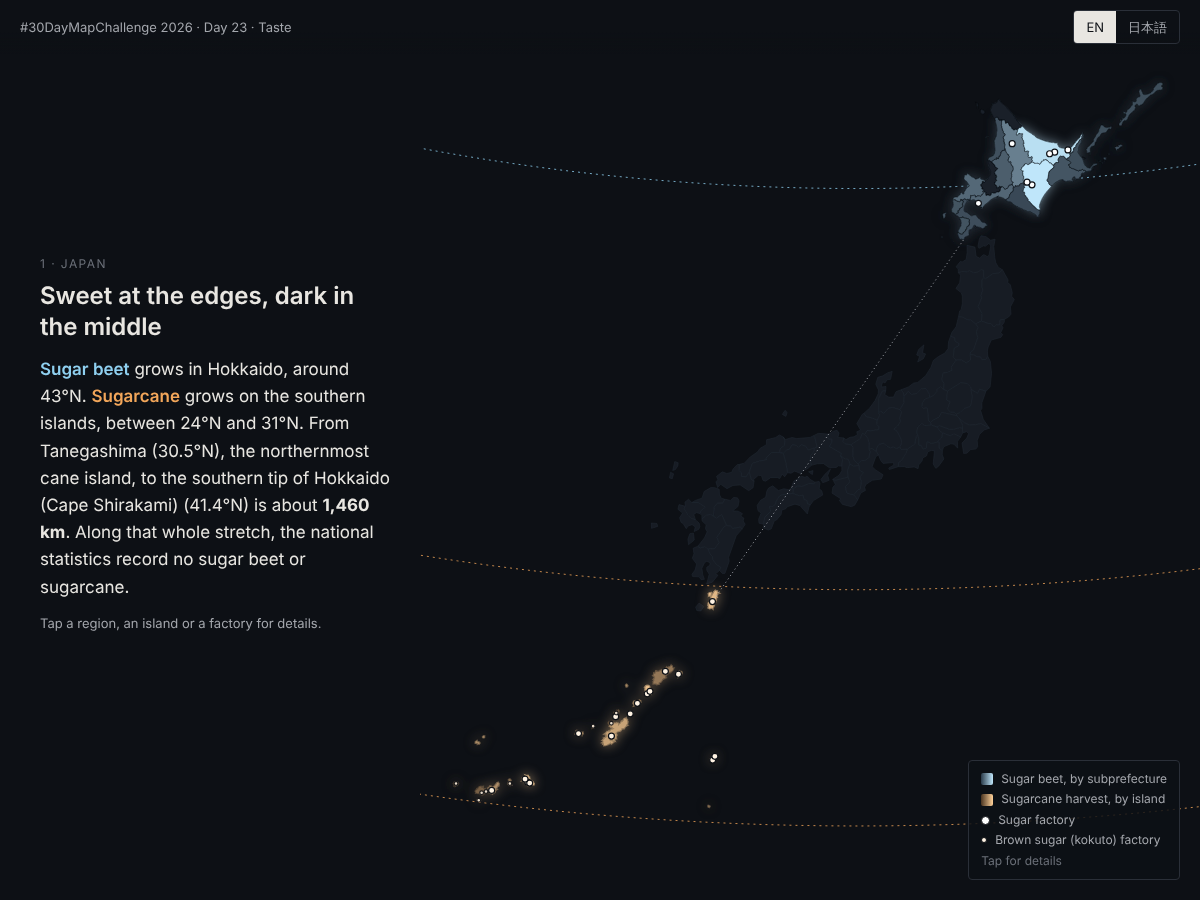
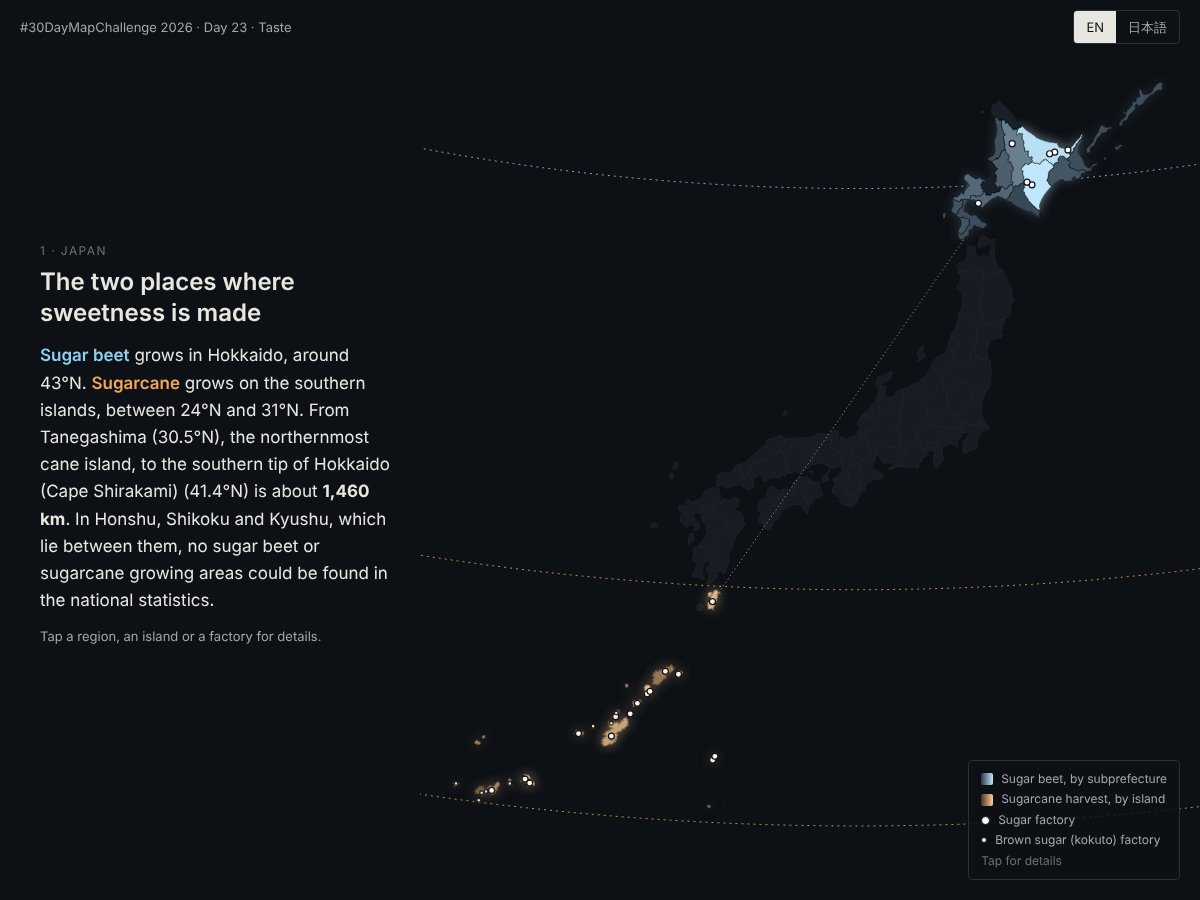
Plainer wording in both languages; new title

Changed region(s): [[0.0308, 0.28, 0.3392, 0.7156]]

diff --git a/js/i18n.js b/js/i18n.js
@@ -4,25 +4,25 @@ var I18N = {
     theme: "Taste",
     metricArea: "planted area",
     metricHarvest: "harvest",
-    title: "Sugar from snow and sun",
+    title: "Sugar from cold places and hot places",
     mapTitle: "Maps of where sugar beet and sugarcane are grown, in the world and in Japan",
-    lede: "Japan grows sugar only at its two ends: <strong class='beet'>sugar beet</strong> in snowy Hokkaido and <strong class='cane'>sugarcane</strong> on the subtropical southern islands. Between them, across Honshu, Shikoku and Kyushu, there are almost no sugar crops. Scroll from the two ends to a spoonful of sugar on the table, and then out to the world.",
+    lede: "Japan makes its sugar from two crops: <strong class='beet'>sugar beet</strong> in snowy Hokkaido and <strong class='cane'>sugarcane</strong> on the subtropical southern islands. Between them, across Honshu, Shikoku and Kyushu, there are almost no sugar crops. This page goes from the two growing areas to a spoonful of sugar on the table, and finally out to the world.",
 
     s1k: "5 · The world",
-    s1h: "One sweetness, two plants",
+    s1h: "The world's sugar crops",
     s1p: "Sugar is sucrose taken out of plants, and almost all of it comes from two of them. In {faoYear}, sugar beet and sugarcane made up over {beetCaneShare}% of the world's sugar crop harvest by weight. <strong class='beet'>{nBeet} countries</strong> grew sugar beet ({worldBeet} million t) and <strong class='cane'>{nCane} countries</strong> grew sugarcane ({worldCane} million t). The two groups barely overlap on the map. All {nBeetOnly} countries that grow only beet lie at {beetOnlyMinLat}° latitude or higher. All {nCaneOnly} countries that grow only cane lie below {caneOnlyMaxLat}°, and {caneOnlyTropics} of them between the dashed tropic lines.",
     s1n: "Countries are coloured by whether they reported any production of each crop in FAOSTAT {faoYear}. Latitude is that of each country's label point on the map, not of its fields. Tap a country for its numbers.",
     s1bh: "Few countries grow both",
     s1bp: "Only <strong>{nBoth} of {nProducers}</strong> producing countries grew both crops, and only <strong>{nBig}</strong> grew more than a million tonnes of each. Japan is one of them: {jpBeetFao} million t of beet and {jpCaneFao} million t of cane in {faoYear}. Countries that grow both, from largest smaller crop down:",
 
     s2k: "1 · Japan",
-    s2h: "Sweet at the edges, dark in the middle",
-    s2p: "<strong class='beet'>Sugar beet</strong> grows in Hokkaido, around {northLat}°N. <strong class='cane'>Sugarcane</strong> grows on the southern islands, between {caneLatMin}°N and {caneLatMax}°N. From {southName} ({gapSouthLat}°N), the northernmost cane island, to {northName} ({gapNorthLat}°N) is about <strong>{distKm} km</strong>. Along that whole stretch, the national statistics record no sugar beet or sugarcane.",
+    s2h: "The two places where sweetness is made",
+    s2p: "<strong class='beet'>Sugar beet</strong> grows in Hokkaido, around {northLat}°N. <strong class='cane'>Sugarcane</strong> grows on the southern islands, between {caneLatMin}°N and {caneLatMax}°N. From {southName} ({gapSouthLat}°N), the northernmost cane island, to {northName} ({gapNorthLat}°N) is about <strong>{distKm} km</strong>. In Honshu, Shikoku and Kyushu, which lie between them, no sugar beet or sugarcane growing areas could be found in the national statistics.",
     s2tip: "Tap a region, an island or a factory for details.",
-    s2nh: "The snow end: Hokkaido",
-    s2np: "In {beetYear}, Hokkaido planted <strong class='beet'>{beetArea} ha</strong> of sugar beet and harvested <strong class='beet'>{beetHarvest} million t</strong>. Tokachi and Okhotsk alone account for {tokOkhShare}% of the {regionMetricLabel}. The roots are sliced and boiled down into white sugar at <strong>{nBeetFactories} factories</strong> run by {nBeetCompanies} companies.",
+    s2nh: "Hokkaido",
+    s2np: "In {beetYear}, Hokkaido planted <strong class='beet'>{beetArea} ha</strong> of sugar beet and harvested <strong class='beet'>{beetHarvest} million t</strong>. Tokachi and Okhotsk alone account for {tokOkhShare}% of the {regionMetricLabel}. The roots, which are the part used for sugar, are sliced and boiled down into white sugar at <strong>{nBeetFactories} factories</strong> run by {nBeetCompanies} companies.",
     s2nn: "Beet sugar output: {beetSugarKt} thousand t ({beetSugarYear}). Regional shares: {regionYear}.",
-    s2sh: "The sun end: the southern islands",
+    s2sh: "The southern islands",
     s2sp: "Okinawa harvested <strong class='cane'>{okCaneKt} thousand t</strong> of cane in the {okYear}, and Kagoshima's southern islands <strong class='cane'>{kgCaneKt} thousand t</strong> ({kgYear}). Together that is {caneTotalKt} thousand t of cane, which became <strong class='cane'>{caneSugarKt} thousand t</strong> of sugar. {topIsland} is the largest grower, at {topIslandKt} thousand t.",
     s2sn: "{nCaneFactories} raw sugar (centrifugal) factories and {nBrownFactories} brown sugar (kokuto) factories are shown. Kagoshima also has small kokuto makers that are not mapped individually.",
 
@@ -39,11 +39,11 @@ var I18N = {
 
     s4k: "2 · Seasons",
     s5k: "4 · On the table",
-    s5h: "Snow and sun in one spoon",
+    s5h: "Where the home-grown sugar in the spoon comes from",
     s5p: "In this spoon, <strong class='beet'>{gBeet} of the 100 grains</strong> began as beet in Hokkaido and <strong class='cane'>{gCane}</strong> as cane on the southern islands. Once refined, both are the same substance: sucrose. Beet sugar is mostly refined in Hokkaido. The islands' raw cane sugar is shipped to refineries on the main islands and refined there together with imported raw sugar. On the table, it is all the same white sugar.",
     s5n: "Sucrose and refining: ALIC, “What is sugar made from?” and “About the raw materials of sugar: sugar beet”.",
-    s4h: "Snow first, then sun",
-    s4p: "The two harvests take turns. <strong class='beet'>Beet</strong> is harvested in October and November, and the factories go on slicing the stored roots until March. <strong class='cane'>Cane</strong> is cut and crushed from December, and the island factories run into April, a few into May.",
+    s4h: "Harvest seasons",
+    s4p: "The two crops are harvested at different times of year. <strong class='beet'>Beet</strong> is harvested in October and November, and the factories go on slicing the stored roots until March. <strong class='cane'>Cane</strong> is cut and crushed from December, and the island factories run into April, a few into May.",
     s4n: "Beet months: {beetSeasonSrc}. Cane months come from the factory operating dates of the {okYear} (Okinawa) and the {kgYear} (Kagoshima); harvest runs in step with the factories.",
     seBeet: "Sugar beet · Hokkaido",
     seCane: "Sugarcane · southern islands",
@@ -102,25 +102,25 @@ var I18N = {
     theme: "味覚",
     metricArea: "作付面積",
     metricHarvest: "収穫量",
-    title: "雪と太陽の砂糖",
+    title: "寒い場所と暑い場所で作られる砂糖",
     mapTitle: "世界と日本の、てん菜とさとうきびの産地の地図",
-    lede: "日本で砂糖の原料が育つのは、国の両端だけです。雪の北海道の<strong class='beet'>てん菜</strong>と、亜熱帯の南の島々の<strong class='cane'>さとうきび</strong>。その間の本州・四国・九州には、砂糖の原料作物はほとんどありません。2つの産地から食卓のスプーン1杯の砂糖へ、そして最後に世界へと広げていきます。",
+    lede: "日本で砂糖の原料となるのは、雪の北海道の<strong class='beet'>てん菜</strong>と、亜熱帯の南の島々の<strong class='cane'>さとうきび</strong>の2種類。その間の本州・四国・九州には、砂糖の原料作物はほとんどありません。2つの産地から食卓のスプーン1杯の砂糖へ、そして最後に世界へと広げていきます。",
 
     s1k: "5 · 世界",
-    s1h: "1つの甘さ、2つの植物",
+    s1h: "世界の砂糖の原料作物",
     s1p: "砂糖は植物から取り出したショ糖で、そのほとんどは2つの植物から作られます。{faoYear}年の世界の糖料作物の収穫量のうち、てん菜とさとうきびが重量で{beetCaneShare}%以上を占めました。<strong class='beet'>てん菜は{nBeet}か国</strong>（{worldBeet}百万トン）、<strong class='cane'>さとうきびは{nCane}か国</strong>（{worldCane}百万トン）で作られました。2つのグループは地図の上でほとんど重なりません。てん菜だけを作る{nBeetOnly}か国はすべて緯度{beetOnlyMinLat}度以上、さとうきびだけを作る{nCaneOnly}か国はすべて緯度{caneOnlyMaxLat}度未満にあり、そのうち{caneOnlyTropics}か国は点線で示した回帰線の内側です。",
     s1n: "FAOSTAT（{faoYear}年）で生産量の報告がある作物によって国を塗り分けています。緯度は地図上の各国のラベル位置のもので、畑の位置ではありません。国をタップすると数値を表示します。",
     s1bh: "両方を作る国は少ない",
     s1bp: "生産国{nProducers}か国のうち、両方を作るのは<strong>{nBoth}か国</strong>だけで、どちらも100万トンを超えるのは<strong>{nBig}か国</strong>です。日本はその1つで、{faoYear}年はてん菜{jpBeetFao}百万トン、さとうきび{jpCaneFao}百万トンでした。両方を作る国（少ない方の作物の量が多い順）：",
 
     s2k: "1 · 日本",
-    s2h: "甘いのは両端だけ",
-    s2p: "<strong class='beet'>てん菜</strong>は北緯{northLat}度前後の北海道、<strong class='cane'>さとうきび</strong>は北緯{caneLatMin}〜{caneLatMax}度の南の島々です。さとうきびの北端の{southName}（北緯{gapSouthLat}度）から{northName}（北緯{gapNorthLat}度）までは<strong>約{distKm}km</strong>。この間には、国の統計に載るてん菜とさとうきびの産地はありません。",
+    s2h: "「甘み」が作られる2つの場所",
+    s2p: "<strong class='beet'>てん菜</strong>は北緯{northLat}度前後の北海道、<strong class='cane'>さとうきび</strong>は北緯{caneLatMin}〜{caneLatMax}度の南の島々です。さとうきびの北端の{southName}（北緯{gapSouthLat}度）から{northName}（北緯{gapNorthLat}度）までは<strong>約{distKm}km</strong>です。この間にある本州・四国・九州では、国の統計に載るてん菜とさとうきびの産地は見つけられませんでした。",
     s2tip: "地域・島・工場をタップすると詳細を表示します。",
-    s2nh: "雪の端：北海道",
-    s2np: "{beetYear}、北海道のてん菜の作付面積は<strong class='beet'>{beetArea} ha</strong>、収穫量は<strong class='beet'>{beetHarvest}百万トン</strong>でした。十勝とオホーツクの2つの振興局だけで{regionMetricLabel}の{tokOkhShare}%を占めます。根は{nBeetCompanies}社<strong>{nBeetFactories}工場</strong>で刻んで煮詰められ、白い砂糖になります。",
+    s2nh: "北海道",
+    s2np: "{beetYear}、北海道のてん菜の作付面積は<strong class='beet'>{beetArea} ha</strong>、収穫量は<strong class='beet'>{beetHarvest}百万トン</strong>でした。十勝とオホーツクの2つの振興局だけで{regionMetricLabel}の{tokOkhShare}%を占めます。砂糖の原料となる根は、{nBeetCompanies}社<strong>{nBeetFactories}工場</strong>で刻んで煮詰められ、白い砂糖になります。",
     s2nn: "てん菜糖の生産量：{beetSugarKt}千トン（{beetSugarYear}）。振興局別の割合：{regionYear}。",
-    s2sh: "太陽の端：南の島々",
+    s2sh: "南の島々",
     s2sp: "沖縄県の{okYear}のさとうきびの生産量は<strong class='cane'>{okCaneKt}千トン</strong>、鹿児島県の南の島々は<strong class='cane'>{kgCaneKt}千トン</strong>（{kgYear}）でした。合わせて{caneTotalKt}千トンのさとうきびから、<strong class='cane'>{caneSugarKt}千トン</strong>の砂糖が作られています。最大の産地は{topIsland}（{topIslandKt}千トン）です。",
     s2sn: "分みつ糖工場{nCaneFactories}か所と含みつ糖（黒糖）工場{nBrownFactories}か所を表示しています。鹿児島県の小規模な含みつ糖工場は個別には表示していません。",
 
@@ -137,11 +137,11 @@ var I18N = {
 
     s4k: "2 · 季節",
     s5k: "4 · 食卓",
-    s5h: "1つのスプーンの中の雪と太陽",
+    s5h: "スプーンの中の国産の砂糖",
     s5p: "このスプーンの100粒のうち<strong class='beet'>{gBeet}粒</strong>は北海道のてん菜から、<strong class='cane'>{gCane}粒</strong>は南の島々のさとうきびから来ています。精製すれば、どちらも同じショ糖です。てん菜糖はほとんどが北海道で精製まで行われ、島の粗糖は本州の精糖工場に運ばれて、輸入した粗糖と一緒に精製されます。食卓では、どれも同じ白い砂糖です。",
     s5n: "ショ糖と精製について：ALIC「砂糖はなにからできているの？」「砂糖の原料について～てん菜～」。",
-    s4h: "雪の季節のあとに、太陽の季節",
-    s4p: "2つの収穫は交代で訪れます。<strong class='beet'>てん菜</strong>は10〜11月に収穫され、工場は貯蔵した根を3月まで刻み続けます。<strong class='cane'>さとうきび</strong>は12月から刈り取りと製糖が始まり、島の工場は4月まで、一部は5月まで動きます。",
+    s4h: "収穫の時期",
+    s4p: "てん菜とさとうきびは、収穫の時期がずれています。<strong class='beet'>てん菜</strong>は10〜11月に収穫され、工場は貯蔵した根を3月まで刻み続けます。<strong class='cane'>さとうきび</strong>は12月から刈り取りと製糖が始まり、島の工場は4月まで、一部は5月まで動きます。",
     s4n: "てん菜の時期：{beetSeasonSrc}。さとうきびの時期は、沖縄県（{okYear}）と鹿児島県（{kgYear}）の工場の操業日から示しています。収穫は工場の操業と並行して進みます。",
     seBeet: "てん菜 · 北海道",
     seCane: "さとうきび · 南の島々",

diff --git a/index.html b/index.html
@@ -3,10 +3,10 @@
 <head>
 <meta charset="utf-8">
 <meta name="viewport" content="width=device-width, initial-scale=1">
-<title>Sugar from snow and sun</title>
-<meta name="description" content="Japan grows sugar only at its two ends: sugar beet in snowy Hokkaido and sugarcane on its subtropical southern islands. #30DayMapChallenge 2026 Day 23: Taste.">
-<meta property="og:title" content="Sugar from snow and sun">
-<meta property="og:description" content="Japan grows sugar only at its two ends: sugar beet in snowy Hokkaido and sugarcane on its southern islands.">
+<title>Sugar from cold places and hot places</title>
+<meta name="description" content="Japan makes its sugar from two crops: sugar beet in Hokkaido and sugarcane on the southern islands. #30DayMapChallenge 2026 Day 23: Taste.">
+<meta property="og:title" content="Sugar from cold places and hot places">
+<meta property="og:description" content="Japan makes its sugar from two crops: sugar beet in Hokkaido and sugarcane on the southern islands.">
 <meta property="og:image" content="docs/screenshot.png">
 <link rel="stylesheet" href="css/style.css">
 </head>
@@ -31,7 +31,7 @@
 
   <div class="steps">
     <section class="step intro" data-scene="japan">
-      <h1 data-i18n="title">Sugar from snow and sun</h1>
+      <h1 data-i18n="title">Sugar from cold places and hot places</h1>
       <p class="lede" data-i18n-html="lede"></p>
     </section>
 

diff --git a/README.md b/README.md
@@ -1,4 +1,4 @@
-# Sugar from snow and sun / 雪と太陽の砂糖
+# Sugar from cold places and hot places / 寒い場所と暑い場所で作られる砂糖
 
 #30DayMapChallenge 2026 · Day 23 “Senses: Taste” (posted 23 November 2026)
 
